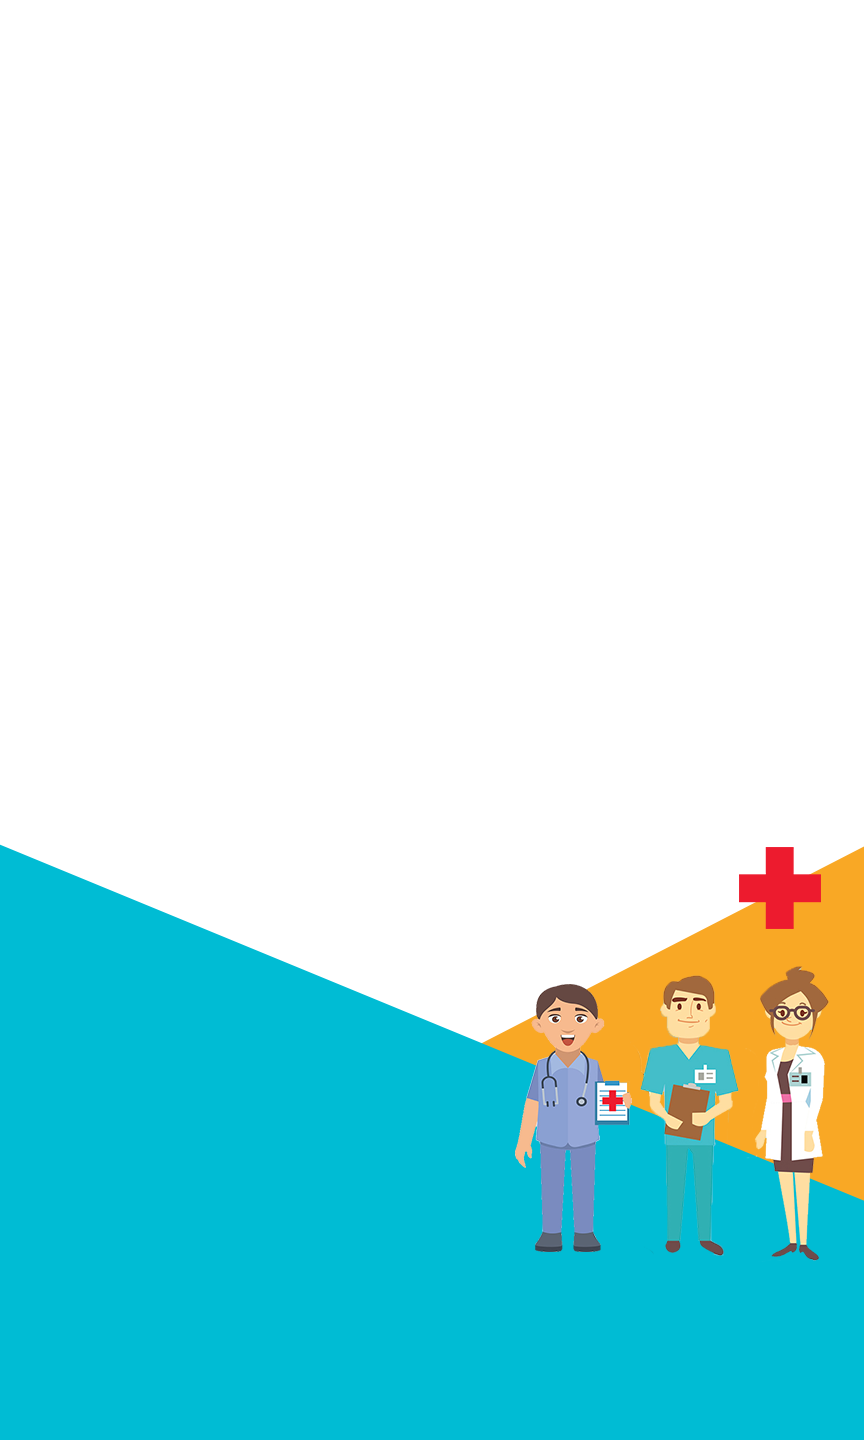
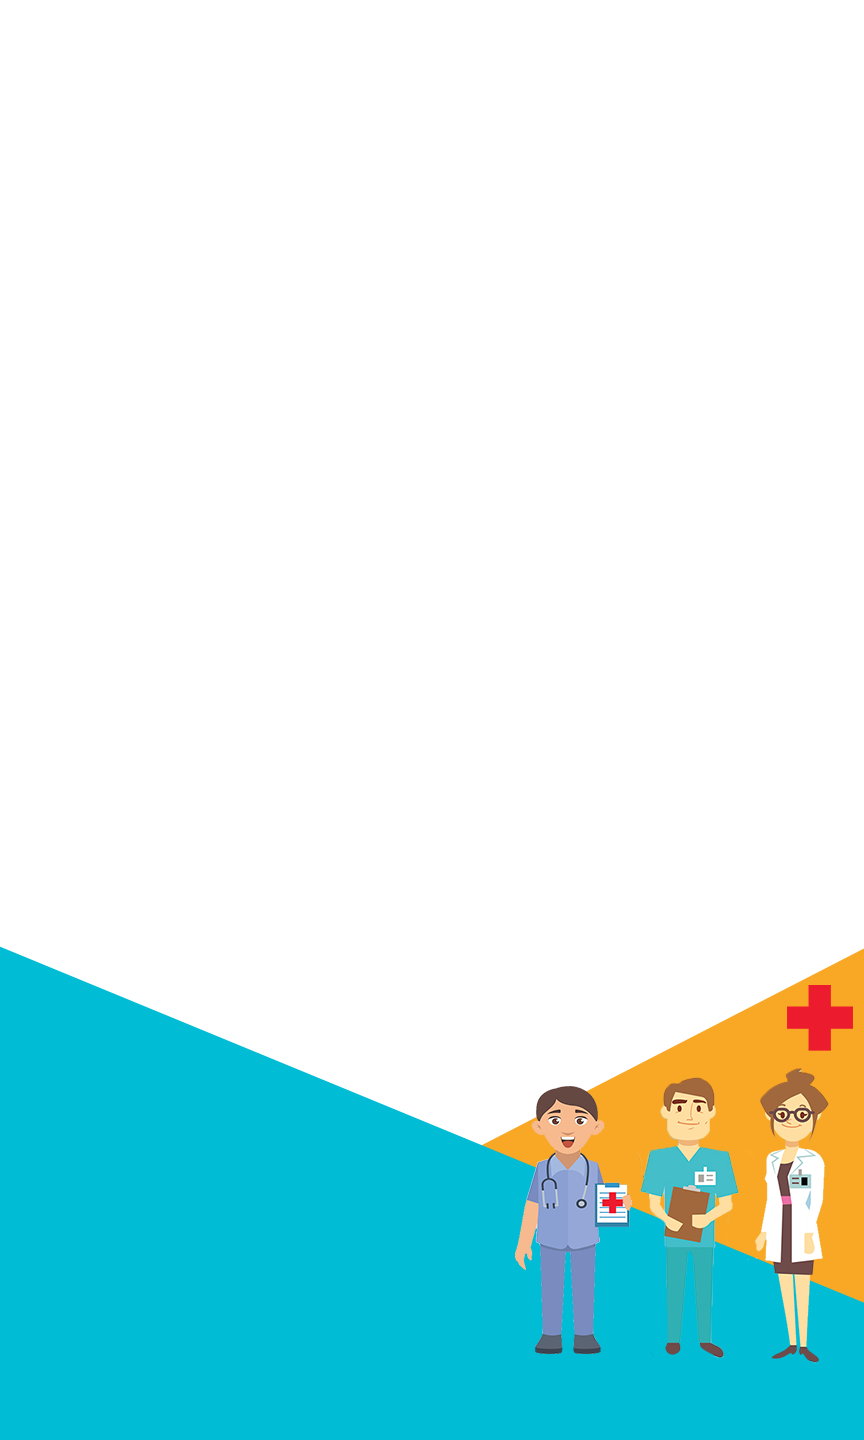
Bugs fixed for mobile navbar

Changed region(s): [[0.0, 0.5625, 1.0, 0.9688]]

diff --git a/index.html b/index.html
@@ -32,14 +32,19 @@
 
     <meta name="theme-color" content="#ffffff ">
 
-     <!-- Compiled and minified CSS -->
-     <link rel="stylesheet" href="https://cdnjs.cloudflare.com/ajax/libs/materialize/1.0.0/css/materialize.min.css">
-
-     <!-- Compiled and minified JavaScript -->
-     <script src="https://cdnjs.cloudflare.com/ajax/libs/materialize/1.0.0/js/materialize.min.js"></script>
-     
+    <!-- Compiled and minified CSS -->
+    <link rel="stylesheet" href="https://cdnjs.cloudflare.com/ajax/libs/materialize/1.0.0/css/materialize.min.css">
     <link rel="stylesheet" href="css/home.css">
 
+    <!-- Compiled and minified JavaScript --> 
+    <script type="text/javascript" src="https://code.jquery.com/jquery-3.2.1.min.js"></script>
+    <script src="https://cdnjs.cloudflare.com/ajax/libs/materialize/1.0.0/js/materialize.min.js"></script>
+    <script>
+      $(document).ready(function(){
+        $('#trigger').sidenav();
+      });
+    </script>
+    
     <!-- Material Icons -->
     <link href="https://fonts.googleapis.com/icon?family=Material+Icons" rel="stylesheet">
 
@@ -47,12 +52,13 @@
 
   <body>
 
- 
+  
+
 <!-------------------------------------------Nav Bar--------------------------------->
 <nav class="white">
     <div class="nav-wrapper" style="margin-right:10px;">
-      
-      <a href="#" data-target="mobile-demo" class="sidenav-trigger"><i class="blue-grey-text text-darken-4 material-icons">menu</i></a>
+      <a href="#" data-target="mobile-demo" class="sidenav-trigger" id="trigger"><i class="blue-grey-text text-darken-4 material-icons">menu</i></a>
+
       <ul class="right hide-on-med-and-down">
           <li><a class="black-text" href="https://sparrow-platform.com">Home</a></li>
           <li><a class="black-text" href="badges.html">Sparrow-Net</a></li>
@@ -60,6 +66,7 @@
           <li><a class="black-text" href="collapsible.html">About</a></li>
       </ul>
     </div>
+    
   </nav>
 
   <ul class="sidenav" id="mobile-demo">
@@ -69,11 +76,7 @@
       <li><a class="black-text" href="collapsible.html">About</a></li>
   </ul>
 
-  <script>
-    $(document).ready(function(){
-      $('.sidenav').sidenav();
-    });
-  </script>
+  
 <!-------------------------------------------Nav Bar--------------------------------->  
 
 

diff --git a/css/home.css b/css/home.css
@@ -20,7 +20,7 @@
   background-position:center bottom; /* or 0&#37; 100% */
   
   margin-top: 0;
-  margin-bottom: 0;
+  margin-bottom: -20px;
 }
 
  
